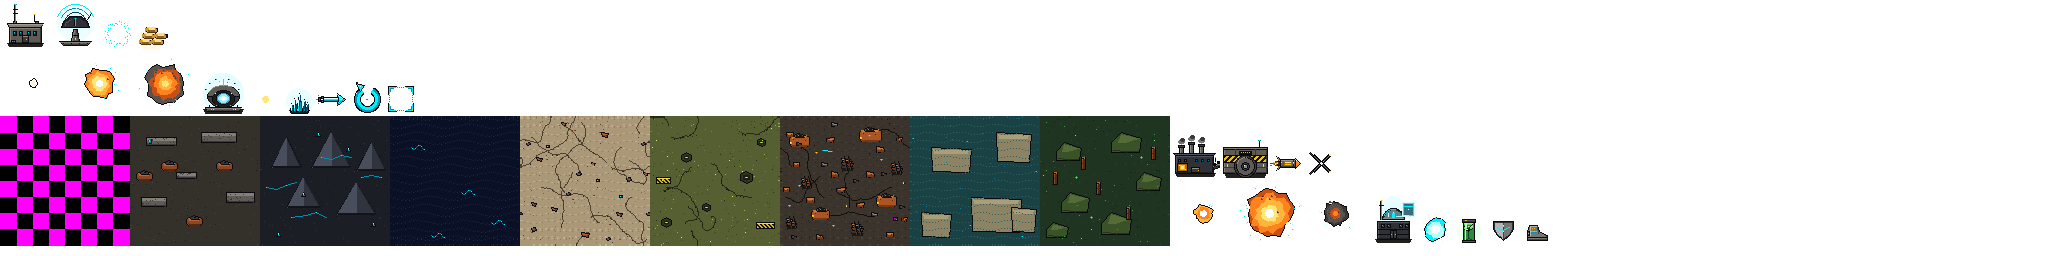
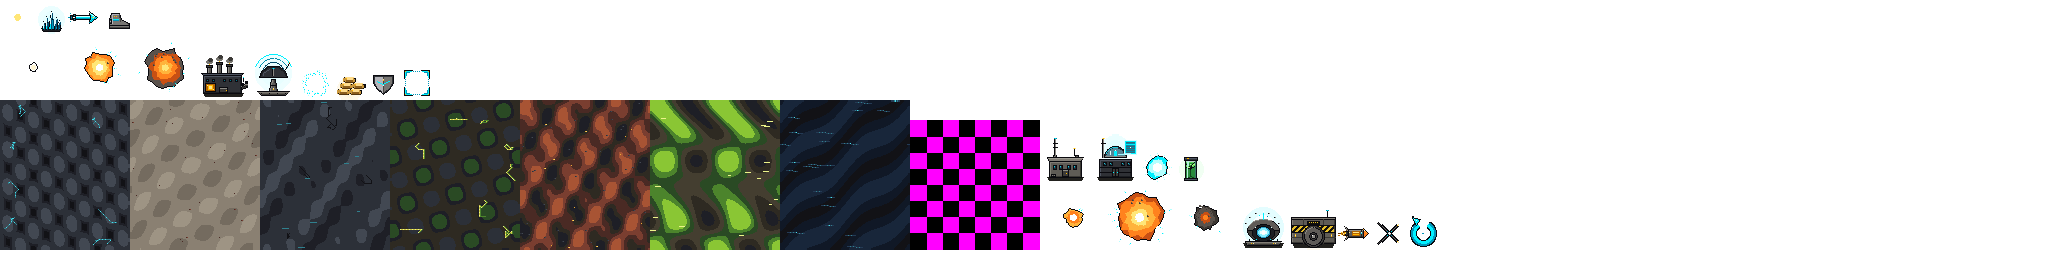
feat(hex-mask): add hex mask for tiles render process - Created new simpler textures (for the upcoming tiles decorations addition) for tiles with aspect ratio similar to the hex one (sqrt(3) / 2, I went with 128x148 px). - Added HexMask object which takes the whole TextureRegion and creates a polygo

diff --git a/core/src/main/kotlin/com/Labs2077/civgame/client/rendering/HexMask.kt b/core/src/main/kotlin/com/Labs2077/civgame/client/rendering/HexMask.kt
@@ -1,0 +1,48 @@
+package com.Labs2077.civgame.client.rendering
+
+import com.badlogic.gdx.graphics.g2d.PolygonRegion
+import com.badlogic.gdx.graphics.g2d.TextureRegion
+import kotlin.math.PI
+import kotlin.math.cos
+import kotlin.math.sin
+
+/**
+ * Klasa do tworzenia maski hexagonalnej dla regionu tekstury, tak aby wyświetlana była jedynie tekstura
+ * o kształcie heksagonu. Dodatkowo dla poprawy wydajności, wyniki są buforowane w pamięci podręcznej.
+ */
+object HexMask {
+    private val cache = HashMap<TextureRegion, PolygonRegion>()
+
+    /** Wpisany w region hex pointy-top. */
+    fun of(region: TextureRegion): PolygonRegion = cache.getOrPut(region) {
+        val w = region.regionWidth.toFloat()
+        val h = region.regionHeight.toFloat()
+
+        // środek tekstury
+        val cx = w / 2f
+        val cy = h / 2f
+
+        // promień to połowa wysokości hexa z uwagi na hexa pointy-top
+        val r = h / 2f
+
+        // 12 wpisów dla wierzchołków, ponieważ każdy wierzchołek ma współrzędne x i y i są określane przez 2 kolejne wartości w tablicy
+        val vertices = FloatArray(12)
+        for (i in 0 until 6) {
+            // Wyznaczamy kolejne wierzchołki heksagonu, korzystając z zapisywania parametrycznego okręgu.
+            // Parzyste indeksy w tablicy vertices odpowiadają współrzędnym x, a nieparzyste współrzędnym y.
+            val angle = (PI / 2.0 + i * PI / 3.0).toFloat()
+            vertices[i * 2] = cx + r * cos(angle)
+            vertices[i * 2 + 1] = cy + r * sin(angle)
+        }
+        // Rozbijamy heksagon na trójkąty, aby zostały wyrenderowane przez GPU.
+        val triangles = shortArrayOf(
+            0, 1, 2,
+            0, 2, 3,
+            0, 3, 4,
+            0, 4, 5
+        )
+        PolygonRegion(region, vertices, triangles)
+    }
+
+    fun clear() = cache.clear()
+}

diff --git a/core/src/main/kotlin/com/Labs2077/civgame/client/rendering/WorldRenderer.kt b/core/src/main/kotlin/com/Labs2077/civgame/client/rendering/WorldRenderer.kt
@@ -8,6 +8,7 @@ import com.Labs2077.civgame.engine.map.MapTile
 import com.Labs2077.civgame.engine.rules.UnitId
 import com.Labs2077.civgame.engine.units.UnitInstance
 import com.badlogic.gdx.graphics.g2d.Animation
+import com.badlogic.gdx.graphics.g2d.PolygonSpriteBatch
 import com.badlogic.gdx.graphics.g2d.SpriteBatch
 import com.badlogic.gdx.graphics.g2d.TextureRegion
 import com.badlogic.gdx.math.Vector2
@@ -16,7 +17,7 @@ import kotlin.math.sqrt
 class WorldRenderer(
     private val assets: AssetProvider
 ) {
-    private val batch = SpriteBatch()
+    private val batch = PolygonSpriteBatch()
     private val worldPosition = Vector2()
 
     /*
@@ -98,16 +99,19 @@ class WorldRenderer(
 
                 // Pobieranie odpowiedniej grafiki dla danego terenu
                 val region = assets.terrain(tile.terrainId)
+                // Wyznaczenie skali wysokości regionu tekstury do wysokości kafelka w świecie gry
+                val scale = tileHeight / region.regionHeight
+                // Na podstawie tej skali wiemy, jak duży obszar w świecie gry zajmie grafika
+                val drawW = region.regionWidth * scale
+                val drawH = region.regionHeight * scale
 
                 // Rysowanie grafiki na ekranie
                 batch.draw(
-                    region,
-                    // Wyznaczamy lewy dolny róg grafiki,
-                    // odejmując połowę szerokości i wysokości od środka kafelka.
-                    center.x - tileWidth / 2f,
-                    center.y - tileHeight / 2f,
-                    tileWidth,
-                    tileHeight
+                    HexMask.of(region),
+                    center.x - drawW / 2f,
+                    center.y - drawH / 2f,
+                    drawW,
+                    drawH
                 )
             }
         } finally {
